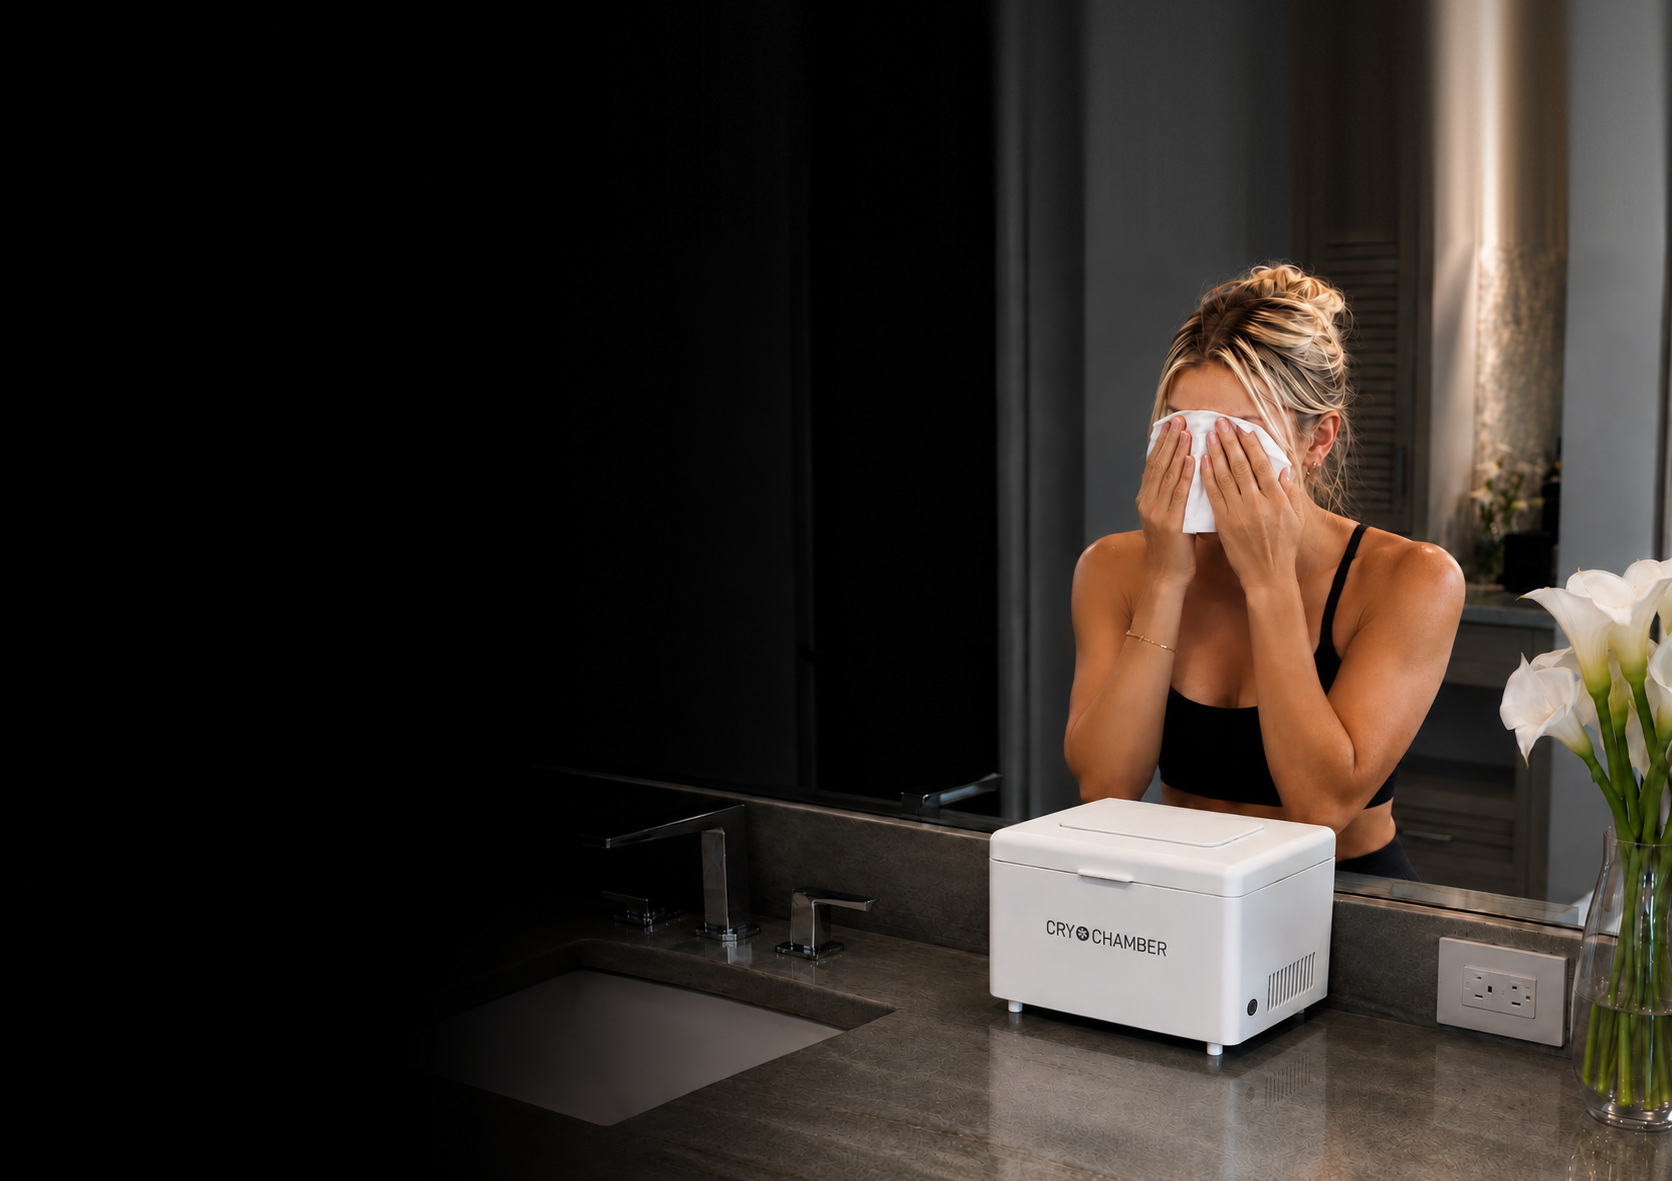
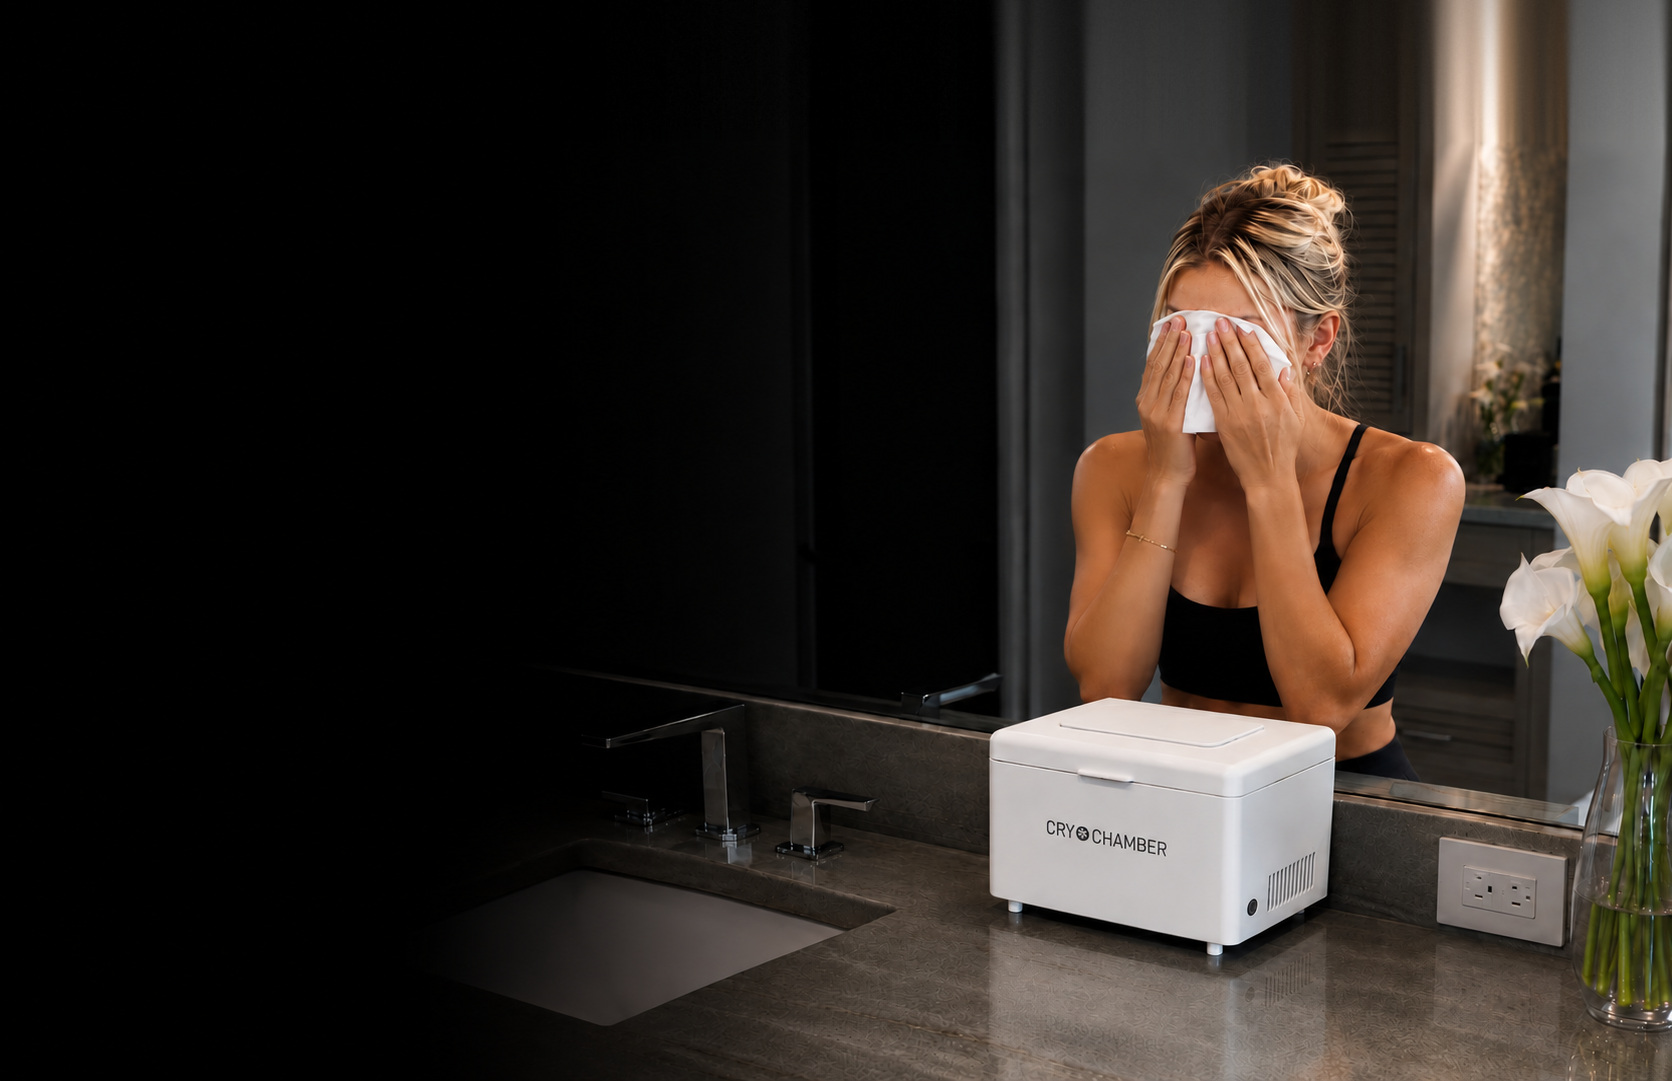
Desktop hero: extend the photo only 140px so it sits just below the header
Claude-Session: https://claude.ai/code/session_01FLP5PYzCw3wYZP1nHfZpiY

diff --git a/preview/index.html b/preview/index.html
@@ -385,7 +385,7 @@
         <source media="(max-width: 860px)" type="image/webp" srcset="../assets/hero-chamber-bathroom-mobile.webp">
         <source media="(max-width: 860px)" srcset="../assets/hero-chamber-bathroom-mobile.jpg">
         <source type="image/webp" srcset="../assets/hero-chamber-bathroom-tall.webp">
-        <img src="../assets/hero-chamber-bathroom-tall.jpg" alt="Woman using a Cryo Wipe at her bathroom counter, white Cryo Chamber beside her" width="1672" height="1181">
+        <img src="../assets/hero-chamber-bathroom-tall.jpg" alt="Woman using a Cryo Wipe at her bathroom counter, white Cryo Chamber beside her" width="1672" height="1081">
       </picture>
       <div class="wrap">
         <div class="hero-copy">
